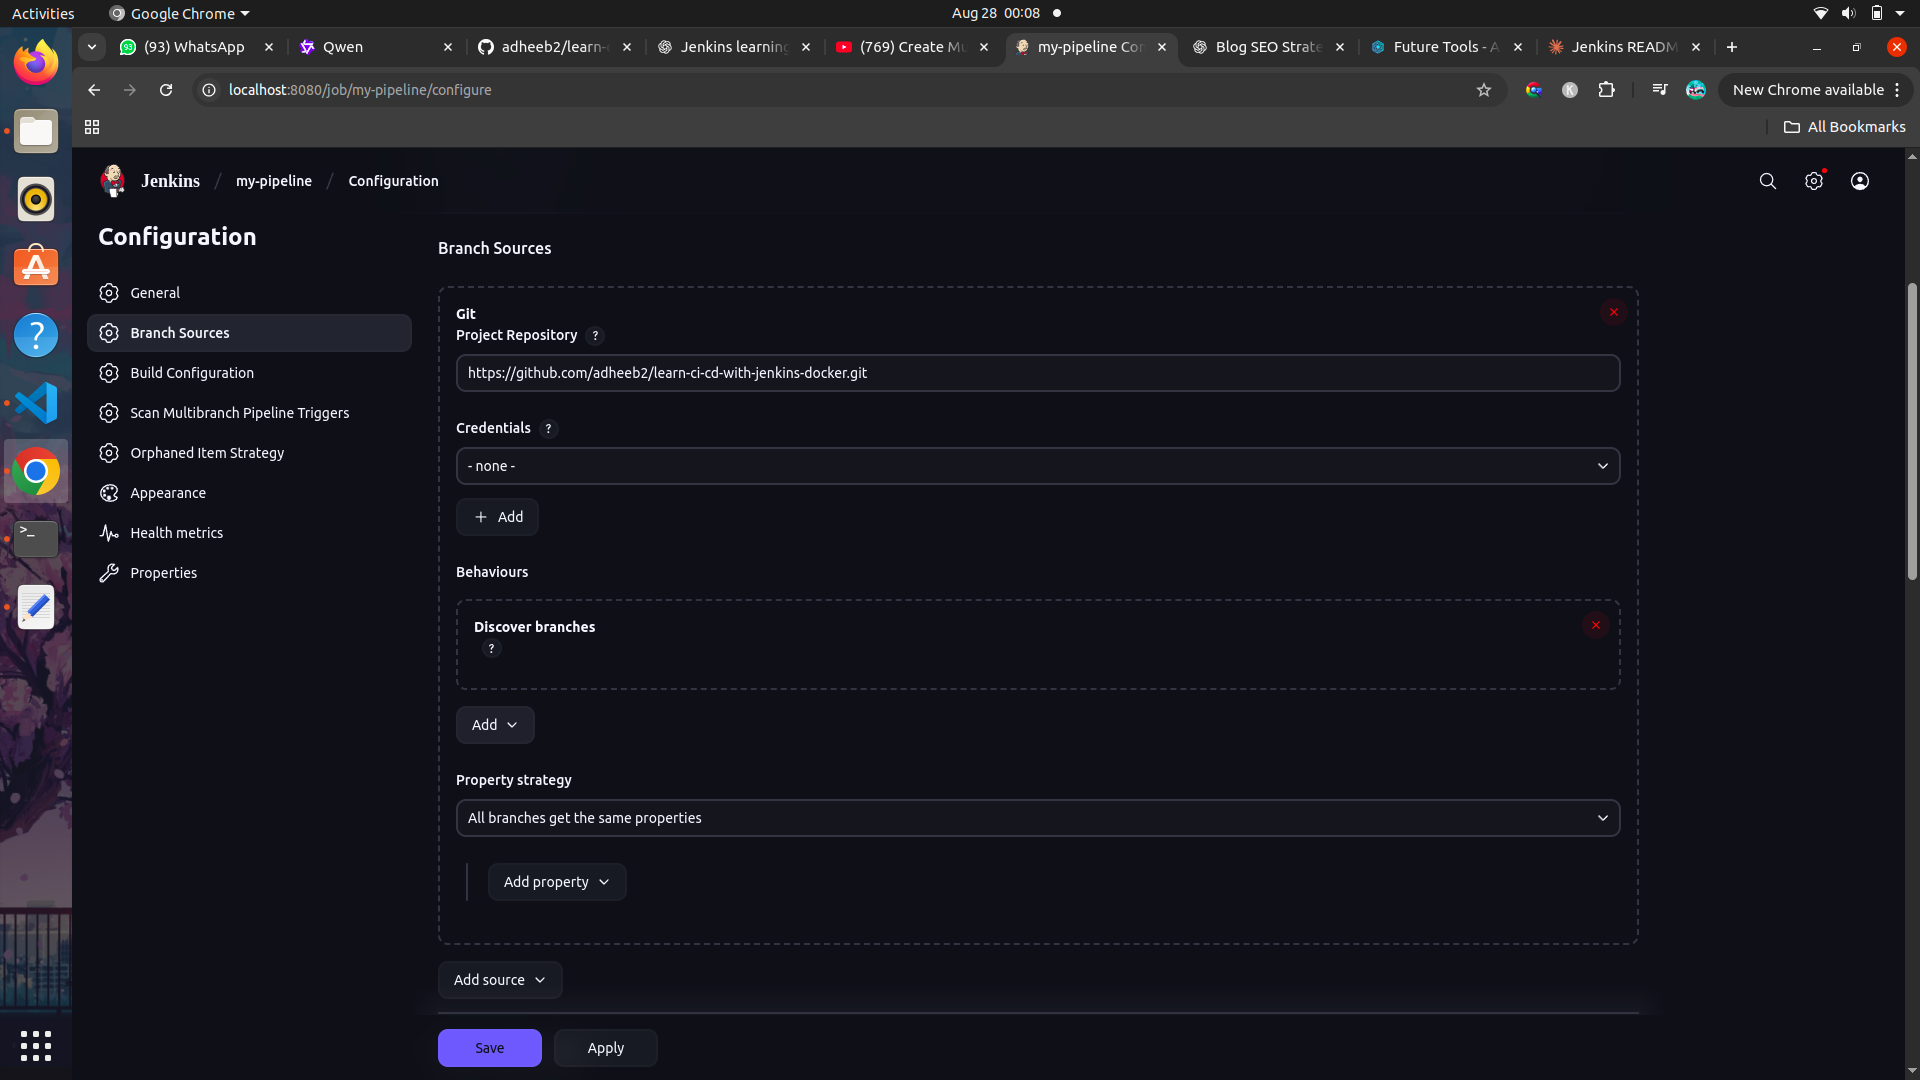
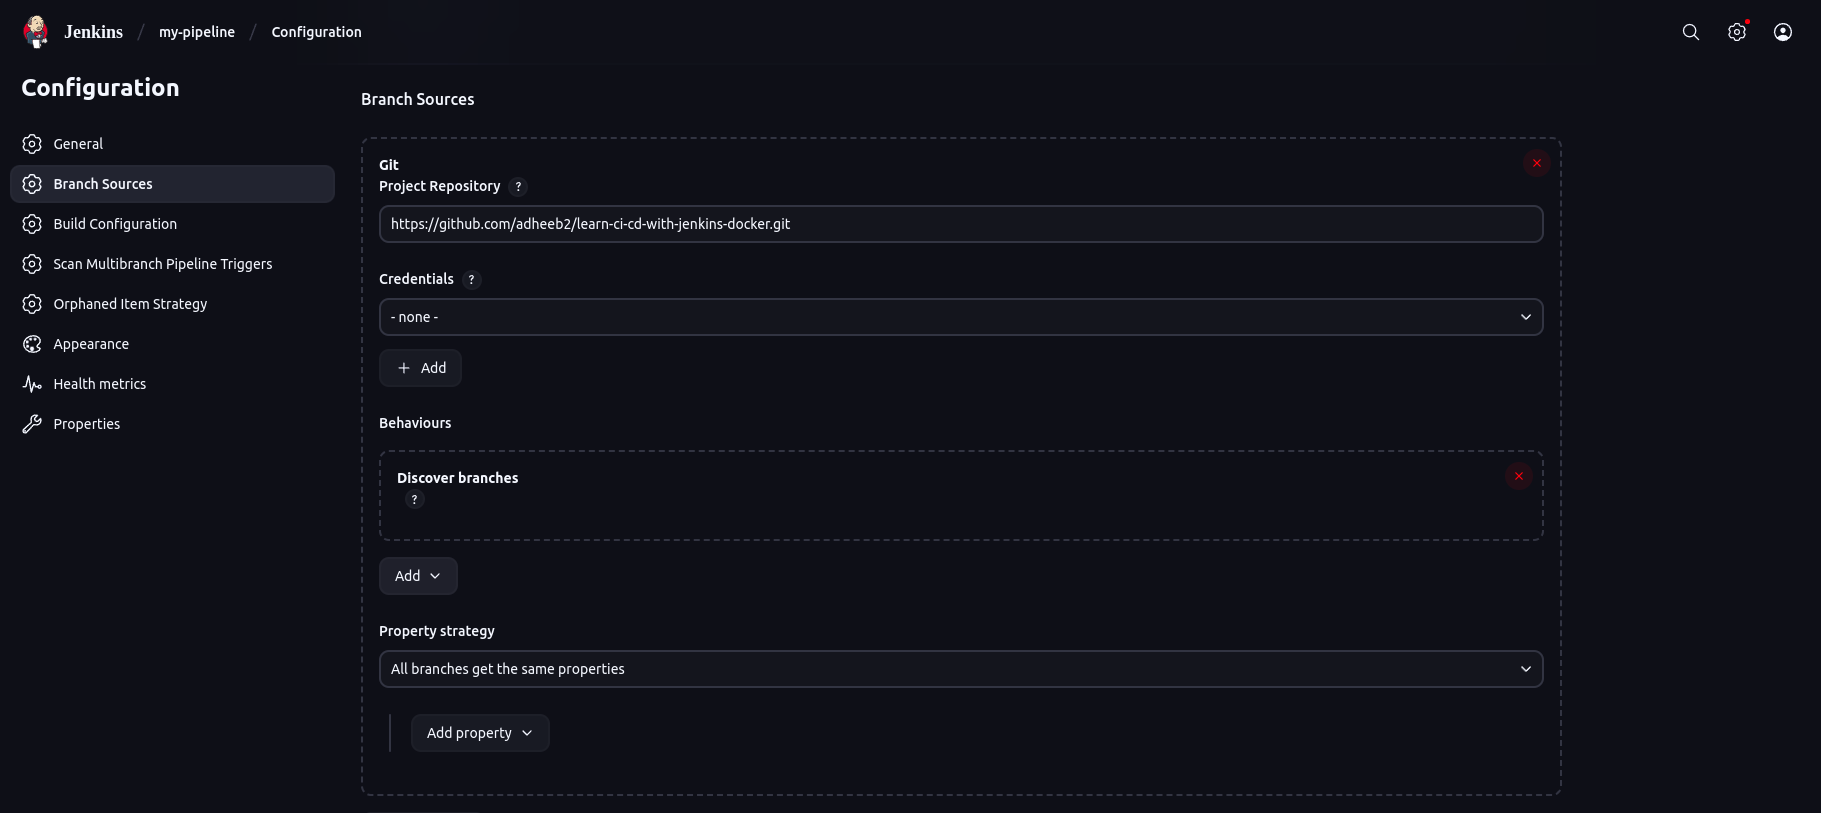
fix(day2):fixed readme

diff --git a/day2/README.md b/day2/README.md
@@ -75,7 +75,7 @@ By default, Jenkins will try to build everthing. So use branch filtering in that
 
 1. Under Credentials section, You can see a section named **Behaviours**, click on the **Add** option below it
 2. Choose Filter by name(with regular expression) option. The default option will select every branches, so you can select branches that need to be excluded or not
-   ![jenkins-ci-cd-pipeline-docker](../images/picture3.png)
+   ![jenkins-ci-cd-pipeline-docker](../images/Picture8.png)
 3. Now click on save and Jenkins will immediately scan your repo
 
 ## Note
